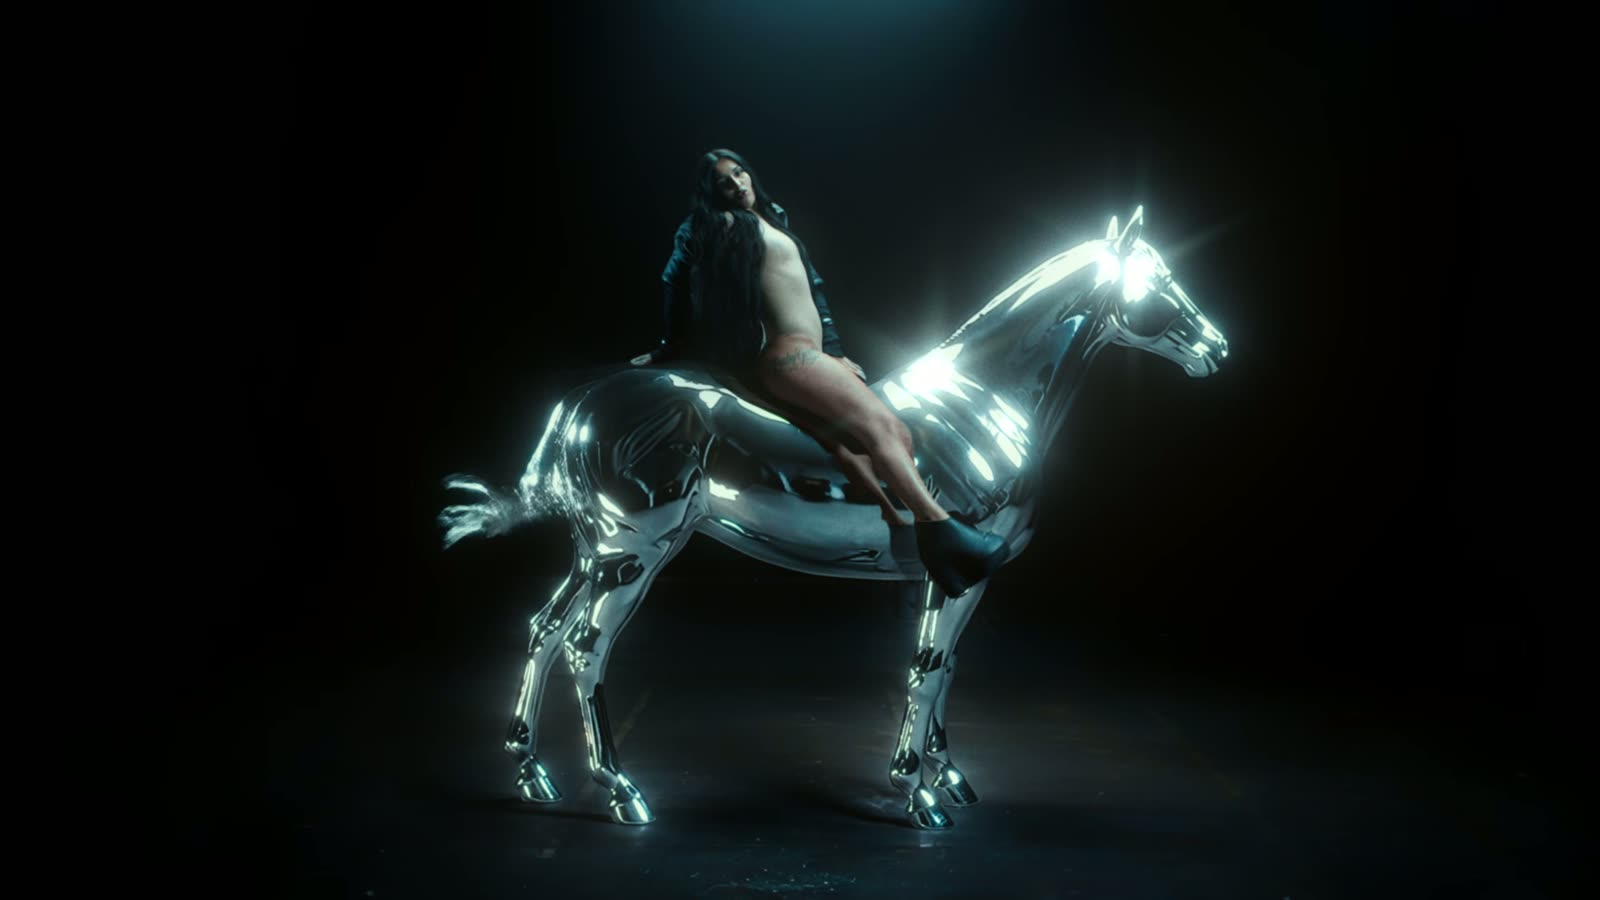
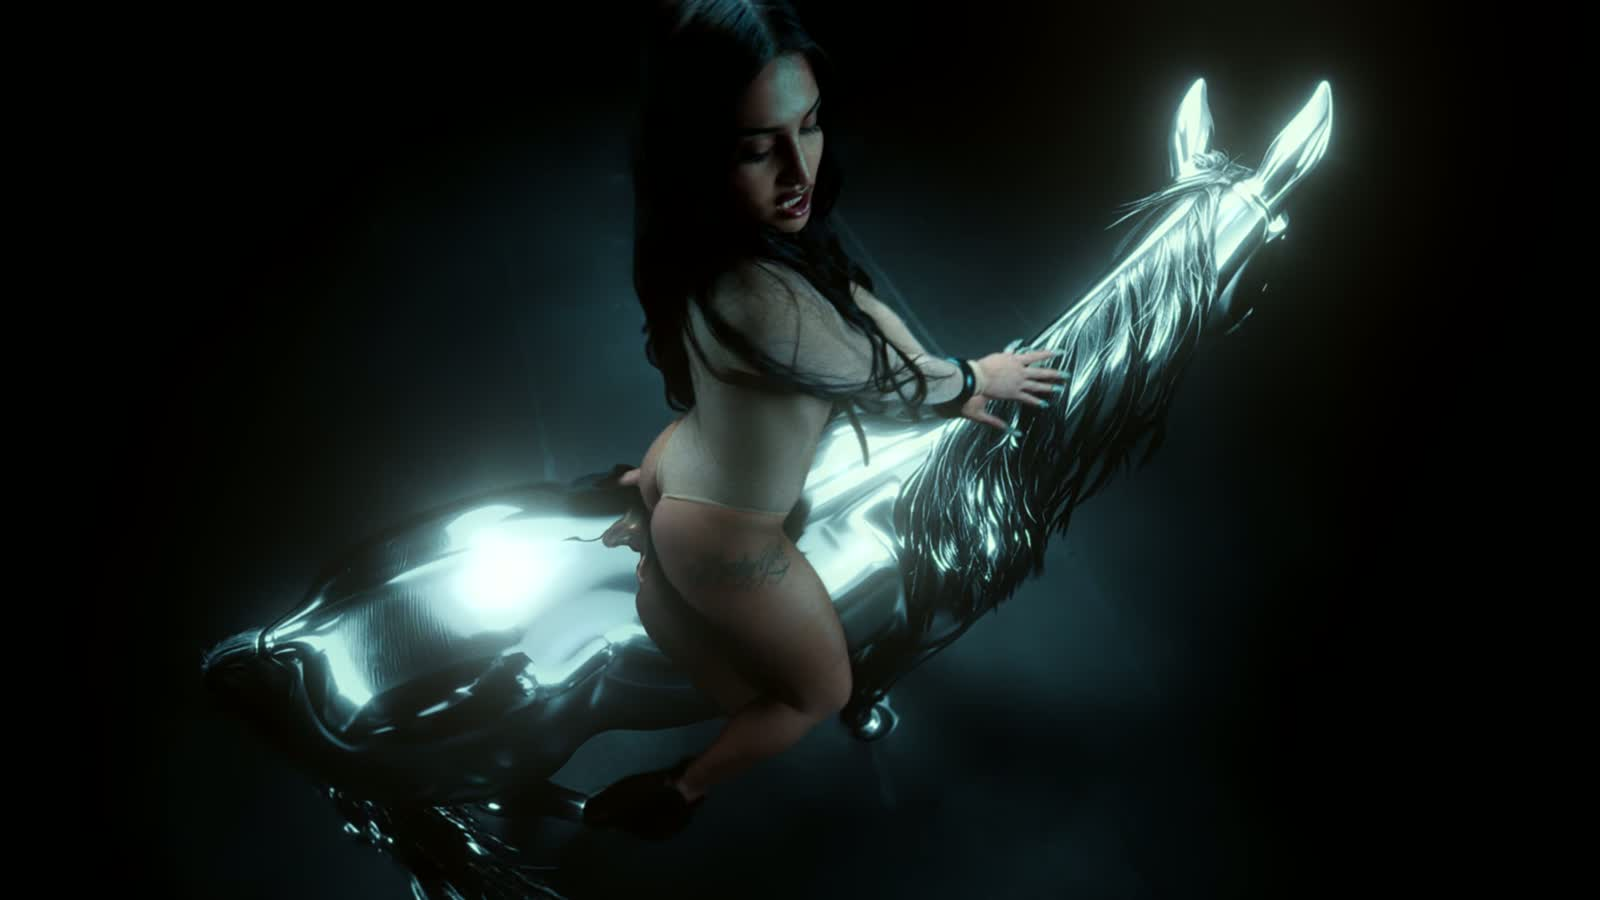
Tre canzoni, un altro cavallo, e un addio in fondo
Le scene scelte sul girato smontato in scene-lab, ognuna tagliata dove il
girato si taglia davvero.

Tre blocchi d'ascolto invece di due, alternati di lato: «Mi Piace» sul
collo (sinistra), «24/7» sugli occhiali (destra), «Money Maker» sui denti
(sinistra). Delle due inquadrature ravvicinate simili — collo e denti —
sta in mezzo quella larga, cosi' non si toccano. Degli occhiali si tiene
solo la prima parte: dopo, le mani si buttano sull'obiettivo e l'anello
diventa una zuffa.

«Limited» passa dal cavallo da solo a lei sopra il cavallo, e sotto
l'inchiostro diventa una forma sola.

In fondo, dietro la lista, lei nella stanza: e' l'ultima cosa che si vede
e sta nello stesso posto dell'ultima cosa da fare. Qui l'immagine e'
contenuta e non tagliata — il nero attorno cade sul nero del sito e non
si vede — cosi' resta intera su qualsiasi schermo.

diff --git a/index.html b/index.html
@@ -817,9 +817,20 @@ body.flip .scan{opacity:.1}
   font-size:.92rem;text-transform:none}
 
 /* --------- lista d'attesa + piede --------------------------------------- */
+/* l'ultima cosa che si vede: lei in fondo alla stanza, e il modulo sopra.
+   L'addio e l'ultima cosa da fare, nello stesso posto. */
 #lista{
-  position:relative;padding:clamp(5rem,14vh,9rem) var(--pad);
+  position:relative;min-height:min(94vh,760px);
+  padding:clamp(6rem,16vh,10rem) var(--pad) clamp(5rem,13vh,8rem);
   border-top:1px solid var(--hair);text-align:center;overflow:hidden;
+  display:flex;flex-direction:column;justify-content:center;
+}
+#lista canvas{position:absolute;inset:0;z-index:0;display:block;width:100%;height:100%}
+#lista .velo{
+  position:absolute;inset:0;z-index:1;pointer-events:none;
+  background:
+    radial-gradient(120% 82% at 50% 62%,transparent 8%,rgba(3,4,5,.72) 62%,rgba(3,4,5,.94) 100%),
+    linear-gradient(to bottom,var(--void),rgba(3,4,5,.35) 26%,rgba(3,4,5,.5) 70%,var(--void));
 }
 #lista h2{font-family:var(--disp);font-weight:800;font-stretch:120%;text-transform:uppercase;
   font-size:clamp(2.2rem,8vw,5rem);color:var(--silver-w);letter-spacing:-.025em;line-height:.88}
@@ -961,9 +972,10 @@ footer .legal{font-family:var(--mono);font-size:.58rem;letter-spacing:.12em;line
   <div class="tk"></div>
 </div>
 
-<section id="lista">
-  <div class="ghost" data-sp=".22">La lista</div>
-  <div class="wrap" style="position:relative;z-index:1">
+<section id="lista" data-loop="addio">
+  <canvas></canvas>
+  <div class="velo"></div>
+  <div class="wrap" style="position:relative;z-index:2">
     <h2 class="melt">La lista</h2>
     <p class="sub">Chi entra lo sa prima degli altri.</p>
     <!-- collegare a Mailchimp / Beehiiv / Klaviyo -->
@@ -1048,7 +1060,7 @@ footer .legal{font-family:var(--mono);font-size:.58rem;letter-spacing:.12em;line
     <a class="mono tag xr" href="#/chi" data-xray="warner" data-cur="Apri">Warner Records Italy</a>
   </section>
 
-  <section class="song r" data-loop="viso">
+  <section class="song r" data-loop="occhi">
     <canvas></canvas>
     <div class="vig"></div>
     <div class="asc">
@@ -1067,6 +1079,27 @@ footer .legal{font-family:var(--mono);font-size:.58rem;letter-spacing:.12em;line
       </div>
     </div>
     <a class="mono tag xr" href="#/musica" data-xray="disco" data-cur="Apri">Scheda del singolo</a>
+  </section>
+
+  <section class="song" data-loop="denti">
+    <canvas></canvas>
+    <div class="vig"></div>
+    <div class="asc">
+      <div class="wrap">
+        <div class="col">
+          <p class="mono a">Singolo — prod. NKO</p>
+          <h2 class="asc-t melt gx" data-t="Money Maker">Money Maker</h2>
+          <div class="plat">
+            <a class="pl" href="https://open.spotify.com/intl-it/artist/6BiW9C6z0jgaJee9d0btwj" target="_blank" rel="noopener" data-cur="Ascolta"><b>Spotify</b><span>→</span></a>
+            <a class="pl" href="https://music.apple.com/it/artist/enny-p/1625487221" target="_blank" rel="noopener" data-cur="Ascolta"><b>Apple Music</b><span>→</span></a>
+            <a class="pl" href="#" data-cur="Guarda"><b>YouTube</b><span>→</span></a>
+            <a class="pl" href="#" data-cur="Ascolta"><b>Amazon Music</b><span>→</span></a>
+          </div>
+          <a class="btn o asc-all" href="#/musica" data-cur="Apri"><span>Tutte le uscite</span></a>
+        </div>
+      </div>
+    </div>
+    <a class="mono tag xr" href="#/musica" data-xray="money" data-cur="Apri">Scheda del singolo</a>
   </section>
 
   <div class="tick" data-say="nep" data-dur="26"><div class="tk"></div></div>
@@ -1355,6 +1388,12 @@ var XRAY = {
     ['Durata','2:42'],
     ['Le immagini','Dal video ufficiale']
   ]},
+  money: {k:'Il singolo', h:'Money Maker', go:'Tutte le uscite →', rows:[
+    ['Uscita','Singolo · 2026'],
+    ['Produzione','NKO'],
+    ['Etichetta','Warner Records Italy'],
+    ['Le immagini','Dal video 24/7']
+  ]},
   stampa: {k:'Il pezzo', h:'Cavallo cromato', go:'Merch →', rows:[
     ['Tiratura','30 copie numerate'],
     ['Formato','50 × 70 cm'],
@@ -1387,9 +1426,13 @@ var HERO = {dir:'frames/', pre:'f_', n:34, rev:true};
 var SEQS = {
   /* fx,fy = dov'e' il soggetto nel girato · px = dove lo vogliamo nel riquadro */
   collo:   {dir:'scene-collo/',   pre:'c_', n:20, ms:50, fx:.60, fy:.46, px:.68, zoom:1.06},
-  viso:    {dir:'scene-viso/',    pre:'v_', n:36, ms:50, fx:.54, fy:.44, px:.34, zoom:1.24},
-  cavallo: {dir:'scene-cavallo/', pre:'h_', n:24, ms:80, fx:.52, fy:.52, px:.66, zoom:1.30,
-              fit:'contain', fitZoom:1.06, py:.83}   /* su schermo stretto: intero, in basso */
+  occhi:   {dir:'scene-occhi/',   pre:'o_', n:15, ms:55, fx:.50, fy:.42, px:.34, zoom:1.10},
+  denti:   {dir:'scene-denti/',   pre:'d_', n:25, ms:55, fx:.50, fy:.50, px:.66, zoom:1.08},
+  cavallo: {dir:'scene-cavallo/', pre:'h_', n:25, ms:70, fx:.46, fy:.50, px:.60, zoom:1.0,
+              fit:'contain', fitZoom:1.04, py:.83},  /* su schermo stretto: intero, in basso */
+  /* qui lei e' piccola dentro la stanza: la si tiene intera, sempre. Il nero
+     attorno cade sul nero del sito e non si vede. */
+  addio:   {dir:'scene-addio/',   pre:'a_', n:19, ms:70, fit:'contain', sempre:true, py:.5}
 };
 var frames = new Array(HERO.n);
 var framesReady = false;
@@ -1434,7 +1477,7 @@ function cover(ctx, img, w, h, cfg){
   var fy = cfg.fy == null ? 0.5 : cfg.fy;
   var px = (largo && cfg.px != null) ? cfg.px : 0.5;
   var x, y;
-  if (!largo && cfg.fit === 'contain'){
+  if (cfg.fit === 'contain' && (cfg.sempre || !largo)){
     /* il cavallo sta sotto l'inchiostro: fuori dall'immagine il nero, dopo
        l'inversione, diventa bianco e il multiply lo restituisce acido — cioe'
        invisibile. Quindi qui si puo' contenere invece che riempire. */
@@ -2053,7 +2096,7 @@ function render(k, instant){
   buildDates(app); buildMerch(app); buildReleases(app);
   fillTickers(document);
   initStage(app);
-  initLoop(app);
+  initLoop(document);      /* anche la lista in fondo, che vive fuori dalle pagine */
   initFlip(app);
   initXray(app);
   initTouch(app);

diff --git a/README.md b/README.md
@@ -25,8 +25,10 @@ Tutto estratto dal video ufficiale «24/7».
 |---|---|---|
 | `frames/` | 34 quadri, 00:00.8 → 00:02.2, 2560 px | il palco: la mano che stringe e si porta via il marchio |
 | `scene-collo/` | 20 quadri, 01:10 → 01:11, 1600 px | anello dietro i tasti di «Mi Piace» |
-| `scene-viso/` | 36 quadri, 01:11 → 01:12.9, 1600 px | anello dietro i tasti di «24/7» |
-| `scene-cavallo/` | 24 quadri, 00:53 → 00:54.9, 1600 px | il cavallo di «Limited»: invertito e in `multiply`, diventa inchiostro sull'acido |
+| `scene-occhi/` | 15 quadri, 00:33 → 00:33.7, 1600 px | anello dietro i tasti di «24/7» |
+| `scene-denti/` | 25 quadri, 00:09.4 → 00:10.6, 1600 px | anello dietro i tasti di «Money Maker» |
+| `scene-addio/` | 19 quadri, 02:31.4 → 02:32.4, 1600 px | l'ultima cosa che si vede, dietro la lista |
+| `scene-cavallo/` | 24 quadri, 00:53 → 00:54.9, 1600 px | il cavallo di «Limited» (lei sopra, 00:51.7 → 00:52.9): invertito e in `multiply`, diventa inchiostro sull'acido |
 | `img/` | 9 fermi immagine, 1500 px | testate di pagina, schede merch, tasti dei social |
 
 `frames/` si carica sul loader ed è l'unica pilotata dallo scroll. Le altre tre
@@ -101,7 +103,7 @@ Non e' il sito rimpicciolito, e' un secondo montaggio:
   c'e' margine per stringere e spostare, perche' il testo sta di lato; su
   schermo stretto il ritaglio mangia gia' i fianchi, quindi il soggetto torna
   al centro e lo zoom sparisce. Nessun valore scritto due volte.
-- **il cavallo di «Limited»** su schermo stretto passa a `contain` e scende in
+- **il cavallo di «Limited» (lei sopra, 00:51.7 → 00:52.9)** su schermo stretto passa a `contain` e scende in
   fondo, intero. Si puo' fare perche' il nero fuori dall'immagine, dopo
   `invert`, diventa bianco e il `multiply` lo restituisce acido: invisibile.
   Il testo sale in alto e il velo si apre verso il basso.
